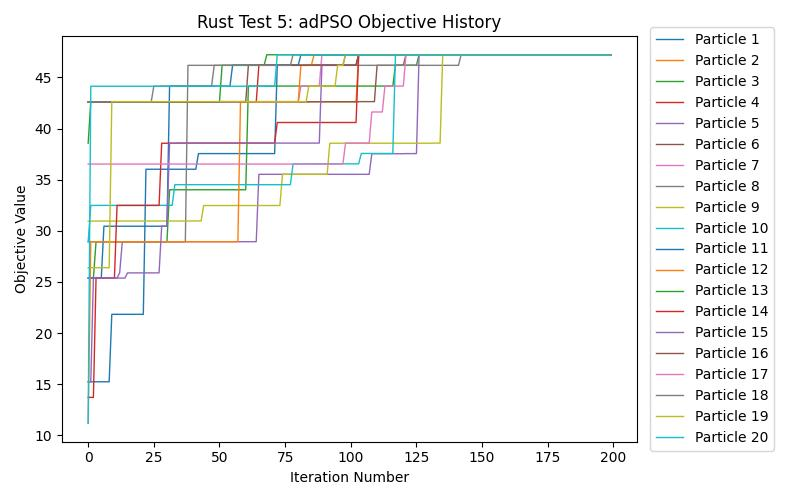
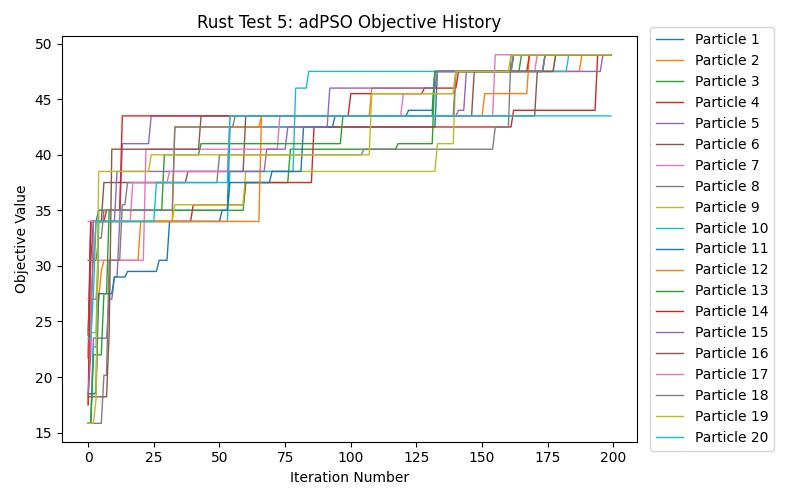
add fixes to the energy consumption calculations

diff --git a/psoscheduler-rust/src/simulation/data_center.rs b/psoscheduler-rust/src/simulation/data_center.rs
@@ -57,9 +57,9 @@ impl DataCenter {
     self.virtual_machine_ready_time.insert(vm.id, new_execution_time);
     self.task_count += 1;
     self.total_millions_of_instructions += task.millions_of_instructions;
-  } 
+  }
 
-  fn compute_makespan(&self) -> f32 {
+  pub fn compute_makespan(&self) -> f32 {
     match self.virtual_machine_ready_time
       .iter()
       .max_by(|a, b| a.1.partial_cmp(&b.1).unwrap())
@@ -69,38 +69,41 @@ impl DataCenter {
       }
   }
 
-  fn _compute_energy_consumption_kw(&self, makespan: f32) -> f32 {
+  pub fn compute_throughput(&self) -> f32 {
+    (self.task_count as f32) / self.compute_makespan()
+  }
+
+  pub fn _compute_energy_consumption_kwh(&self, makespan: f32) -> f32 {
     let mut energy_consumption: f32 = 0.0;
 
-    for (vm_id, millions_of_instructions) in self.virtual_machine_ready_time.iter() {
+    for (vm_id, vm_expected_execution_time) in self.virtual_machine_ready_time.iter() {
       let vm = &self.virtual_machines[*vm_id];
-      let mut machine_energy_consumption = millions_of_instructions * vm.active_state_joules_per_million_instructions;
-      machine_energy_consumption += (makespan - millions_of_instructions) * vm.get_idle_state_joules_per_million_instructions();
+      let mut machine_energy_consumption = vm_expected_execution_time * vm.active_state_joules_per_million_instructions;
+      machine_energy_consumption += (makespan - vm_expected_execution_time) * vm.get_idle_state_joules_per_million_instructions();
       machine_energy_consumption *= vm.millions_of_instructions_per_second as f32;
       energy_consumption += machine_energy_consumption;
     }
 
-    energy_consumption /= self.total_millions_of_instructions as f32;
+    // Now we have joules, so divide it by the total number of seconds to get Watts=J/s
+    energy_consumption /= makespan as f32;
 
-    energy_consumption /= 1000.0;
+    // Now, convert to kWh
+    energy_consumption *= 1. / 3600000.;
 
     return energy_consumption;
   }
 
-  #[allow(dead_code)]
-  fn compute_energy_consumption_kw(&self) -> f32 {
+  pub fn compute_energy_consumption_kwh(&self) -> f32 {
     let makespan = self.compute_makespan();
-    self._compute_energy_consumption_kw(makespan)
+    self._compute_energy_consumption_kwh(makespan)
   }
 
   pub fn compute_objective(&self) -> f32 {
     let makespan = self.compute_makespan();
     let throughput = (self.task_count as f32) / makespan;
-    let kw = self._compute_energy_consumption_kw(makespan);
-    let hw = kw * 10.0;  // hectowatts
-    let average_watts_per_task = hw / (self.task_count as f32);
+    let kwh = self._compute_energy_consumption_kwh(makespan);
     // Scale the energy consumption to an appropriate weight in the objective function
-    return throughput + (2.0 / average_watts_per_task);
+    return throughput + (5.0 / kwh);
   }
 
   pub fn get_min_eet_virtual_machine(&self, task: &Task) -> usize {

diff --git a/psoscheduler-java/src/main/java/syslab/cloudcomputing/simulation/DataCenter.java b/psoscheduler-java/src/main/java/syslab/cloudcomputing/simulation/DataCenter.java
@@ -64,38 +64,32 @@ public abstract class DataCenter {
   public double computeObjective() {
 		double makespan = this.computeMakespan();
     double throughput = (this.taskCount / makespan);
-    double KW = this._computeEnergyConsumptionKW(makespan);
-    double hW = KW * 10;  // hectowatts
-    double averageWattsPerTask = hW / this.taskCount;
-    // Scale the energy consumption to an appropriate weight in the objective function
-    return throughput + (2.0 / averageWattsPerTask);
+    double kWh = this._computeEnergyConsumptionkWh(makespan);
+    return throughput + (5.0 / kWh);
 	}
 
   // Private version that doesn't recompute the makespan to prioritize efficiency
-  private double _computeEnergyConsumptionKW(double makespan) {
+  private double _computeEnergyConsumptionkWh(double makespan) {
     double energyConsumption = 0;
 
     for (Map.Entry<VirtualMachine, Double> entry : this.virtualMachineReadyTime.entrySet()) {
       VirtualMachine vm = entry.getKey();
-      double millionsOfInstructions = entry.getValue();
-      double machineEnergyConsumption = millionsOfInstructions * vm.getActiveStateJoulesPerMillionInstructions();
-      machineEnergyConsumption += (makespan - millionsOfInstructions) * vm.getIdleStateJoulesPerMillionInstructions();
+      double vmExpectedExecutionTime = entry.getValue();
+      double machineEnergyConsumption = vmExpectedExecutionTime * vm.getActiveStateJoulesPerMillionInstructions();
+      machineEnergyConsumption += (makespan - vmExpectedExecutionTime) * vm.getIdleStateJoulesPerMillionInstructions();
       machineEnergyConsumption *= vm.getMillionsOfInstructionsPerSecond();
       energyConsumption += machineEnergyConsumption;
     }
 
-    // Convert from Joules * MIPS to Joules / sec (Watts)
-    energyConsumption /= this.totalMillionsOfInstructions;
-
-    // Convert from Watts (W) to KiloWatts (KW)
-    energyConsumption /= 1000.0;
+    // Convert to kWh
+    energyConsumption *= 1.0 / 3600000.0;
 
     return energyConsumption;
   }
 
-  public double computeEnergyConsumptionKW() {
+  public double computeEnergyConsumptionkWh() {
     double makespan = this.computeMakespan();
-    return this._computeEnergyConsumptionKW(makespan);
+    return this._computeEnergyConsumptionkWh(makespan);
   }
 
   public double computeMakespan() {

diff --git a/psoscheduler-rust/src/lib.rs b/psoscheduler-rust/src/lib.rs
@@ -149,14 +149,14 @@ pub fn build_test11_data_center() -> simulation::data_center::DataCenter {
   let n_vms: usize = 100;
   let vm_mips_low: usize = 1000;
   let vm_mips_high: usize = 5000;
-  let active_state_joules_per_mi_low: f32 = 200.;
-  let active_state_joules_per_mi_high: f32 = 1000.;
+  let watts_low: f32 = 200.;
+  let watts_high: f32 = 1000.;
 
   let mut data_center = simulation::data_center::DataCenter::new();
 
   for _ in 0..n_vms {
     let mi = utils::utilities::get_random_integer(vm_mips_low, vm_mips_high) as u32;
-    let asj = utils::utilities::get_random_float(active_state_joules_per_mi_low, active_state_joules_per_mi_high);
+    let asj = utils::utilities::get_random_float(watts_low, watts_high);
     let vm = simulation::virtual_machine::VirtualMachine::new(mi, asj);
     data_center.add_virtual_machine(vm);
   }
@@ -276,7 +276,21 @@ pub fn run_test_pso_main() {
 
   let mut swarm = pso::pso_swarm::PSOSwarm::new(workload, data_center);
   swarm.run_pso_algorithm();
+
+  swarm.find_global_best();
+
   println!("Global Best Objective: {:?}", swarm.global_best_objective);
+
+  swarm.data_center.reset_virtual_machine_ready_time();
+  for (task_id, vm_id) in swarm.global_best_task_vm_mapping.iter() {
+    let task: &simulation::task::Task = swarm.workload.tasks.get(*task_id).unwrap();
+    swarm.data_center.add_execution_time_to_virtual_machine(task, *vm_id);
+  }
+
+  println!("Global Best Objective (double check): {:?}", swarm.data_center.compute_objective());
+  println!("Global Best Makespan: {:?} sec", swarm.data_center.compute_makespan());
+  println!("Global Best Throughput: {:?} tasks/sec", swarm.data_center.compute_throughput());
+  println!("Global Best Energy Consumption: {:?} kWh", swarm.data_center.compute_energy_consumption_kwh());
   // println!("Final Mapping: {:?}", swarm.global_best_task_vm_mapping);
 
   println!("Saving objective history to objective_history.csv... ");

diff --git a/psoscheduler-java/src/main/java/syslab/cloudcomputing/schedule/Scheduler.java b/psoscheduler-java/src/main/java/syslab/cloudcomputing/schedule/Scheduler.java
@@ -48,11 +48,6 @@ public class Scheduler {
             System.err.println("Invalid argument: " + args[0]);
             return;
         }
-        
-        // System.out.println(dataCenter);
-        // System.out.println(workload);
-
-        // Scheduler.runRepeatedTest(dataCenter, workload, 20.0);
 
         Scheduler.runSingleTest(dataCenter, workload, true);
     }
@@ -70,7 +65,7 @@ public class Scheduler {
 
         System.out.println("Global Best Makespan: " + dataCenter.computeMakespan() + " sec");
         System.out.println("Global Best Throughput: " + dataCenter.computeThroughput() + " tasks/sec");
-        System.out.println("Global Best Energy Consumption: " + dataCenter.computeEnergyConsumptionKW() + " KW");
+        System.out.println("Global Best Energy Consumption: " + dataCenter.computeEnergyConsumptionkWh() + " kWh");
         // System.out.println("Global Best Mapping: " + mapping);
         // System.out.println(dataCenter);
         System.out.print("Saving objective history to objective_history.csv... ");
@@ -304,15 +299,15 @@ public class Scheduler {
         int vmMipsHigh = 5000;
         int vmMipsLow = 1000;
 
-        int activeStateJoulesPerMillionInstructionsLow = 200;   // TODO Is this correct?
-        int activeStateJoulesPerMillionInstructionsHigh = 1000;
+        int wattsLow = 200;
+        int wattsHigh = 1000;
 
         ArrayList<VirtualMachine> vms = new ArrayList<VirtualMachine>();
 
         for (int i = 0; i < nVms; i++) {
             vms.add(new VirtualMachine(
                 Utilities.getRandomInteger(vmMipsLow, vmMipsHigh),
-                Utilities.getRandomInteger(activeStateJoulesPerMillionInstructionsLow, activeStateJoulesPerMillionInstructionsHigh)
+                Utilities.getRandomInteger(wattsLow, wattsHigh)
             ));
         }
 

diff --git a/psoscheduler-java/src/main/java/syslab/cloudcomputing/simulation/VirtualMachine.java b/psoscheduler-java/src/main/java/syslab/cloudcomputing/simulation/VirtualMachine.java
@@ -14,14 +14,14 @@ public class VirtualMachine {
 	public VirtualMachine(int millionsOfInstructionsPerSecond) {
 		this.id = VirtualMachine.idCounter++;
 		this.millionsOfInstructionsPerSecond = millionsOfInstructionsPerSecond;
-		this.activeStateJoulesPerMillionInstructions = 500;
+		this.activeStateJoulesPerMillionInstructions = 5;
 		this.dataCenterId = 0;
 	}
 
-	public VirtualMachine(int millionsOfInstructionsPerSecond, double activeStateJoulesPerMillionInstructions) {
+	public VirtualMachine(int millionsOfInstructionsPerSecond, double watts) {
 		this.id = VirtualMachine.idCounter++;
 		this.millionsOfInstructionsPerSecond = millionsOfInstructionsPerSecond;
-		this.activeStateJoulesPerMillionInstructions = activeStateJoulesPerMillionInstructions;
+		this.activeStateJoulesPerMillionInstructions = watts / (double) millionsOfInstructionsPerSecond;
 		this.dataCenterId = 0;
 	}
 

diff --git a/psoscheduler-rust/benches/rust_pso_benchmark.rs b/psoscheduler-rust/benches/rust_pso_benchmark.rs
@@ -7,8 +7,8 @@ use psoscheduler;
 
 pub fn criterion_benchmark(c: &mut Criterion) {
   let mut group = c.benchmark_group("Rust PSO");
-  group.warm_up_time(Duration::from_secs(15));
-  group.measurement_time(Duration::from_secs(350));
+  group.warm_up_time(Duration::from_secs(1));
+  // group.measurement_time(Duration::from_secs(152));
   group.bench_function("Rust PSO Test 11 Benchmark", |b| b.iter(|| psoscheduler::run_pso_algorithm(black_box(psoscheduler::build_test11_workload()), black_box(psoscheduler::build_test11_data_center()))));
   group.finish();
 }
@@ -20,4 +20,5 @@ criterion_group!{
 }
 criterion_main!(benches);
 
+// NOTE To run regualar benchmarking use "cargo bench --bench rust_pso_benchmark --verbose"
 // NOTE To run the flamegraph profiler use "cargo bench --bench rust_pso_benchmark -- --profile-time=5"

diff --git a/psoscheduler-rust/benches/ndarray_benchmark.rs b/psoscheduler-rust/benches/ndarray_benchmark.rs
@@ -6,10 +6,14 @@ use ndarray_rand::RandomExt;
 use ndarray_rand::rand_distr::Uniform;
 
 pub fn criterion_benchmark2(c: &mut Criterion) {
+  let mut group = c.benchmark_group("Rust ndarray");
   let arr1: Array2<f32> = black_box(Array::random((1000, 100), Uniform::new(0., 10.)));
   let arr2: Array2<f32> = black_box(Array::random((1000, 100), Uniform::new(0., 10.)));
-  c.bench_function("Rust ndarray Ops Benchmark", |b| b.iter(|| psoscheduler::ndarray_ops(&arr1, &arr2)));
+  group.bench_function("Rust ndarray Ops Benchmark", |b| b.iter(|| psoscheduler::ndarray_ops(&arr1, &arr2)));
+  group.finish();
 }
 
 criterion_group!(benches, criterion_benchmark2);
 criterion_main!(benches);
+
+// NOTE To run regualar benchmarking use "cargo bench --bench ndarray_benchmark --verbose"

diff --git a/psoscheduler-rust/src/simulation/virtual_machine.rs b/psoscheduler-rust/src/simulation/virtual_machine.rs
@@ -12,12 +12,12 @@ pub struct VirtualMachine {
 }
 
 impl VirtualMachine {
-  pub fn new(millions_of_instructions_per_second: u32, active_state_joules_per_million_instructions: f32) -> VirtualMachine {
+  pub fn new(millions_of_instructions_per_second: u32, active_state_watts: f32) -> VirtualMachine {
     VirtualMachine { 
       id: VIRTUAL_MACHINE_ID_COUNTER.fetch_add(1, Ordering::Relaxed),
       data_center_id: 0,
       millions_of_instructions_per_second: millions_of_instructions_per_second,
-      active_state_joules_per_million_instructions: active_state_joules_per_million_instructions,
+      active_state_joules_per_million_instructions: active_state_watts / (millions_of_instructions_per_second as f32),
     }
   }
 

diff --git a/psoscheduler-rust/src/pso/pso_swarm.rs b/psoscheduler-rust/src/pso/pso_swarm.rs
@@ -82,7 +82,7 @@ impl PSOSwarm {
     }
   }
 
-  fn find_global_best(&mut self) {
+  pub fn find_global_best(&mut self) {
     for particle in self.particles.iter() {
       if particle.personal_best_objective > self.global_best_objective {
         self.global_best_objective = particle.personal_best_objective;
